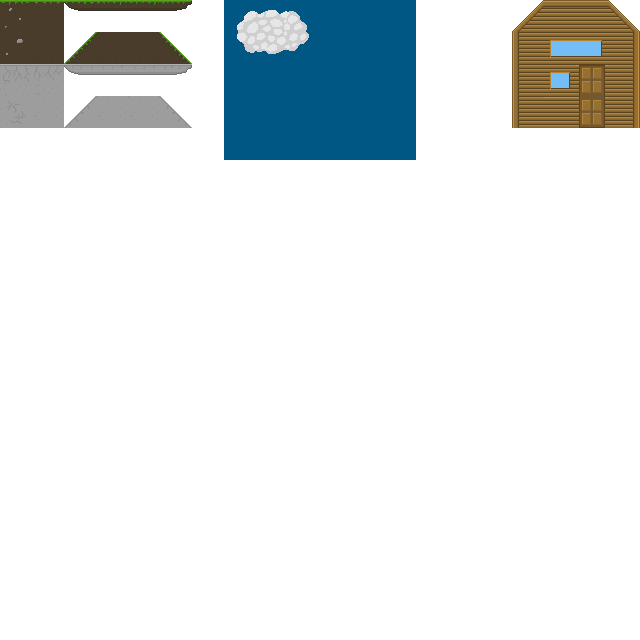
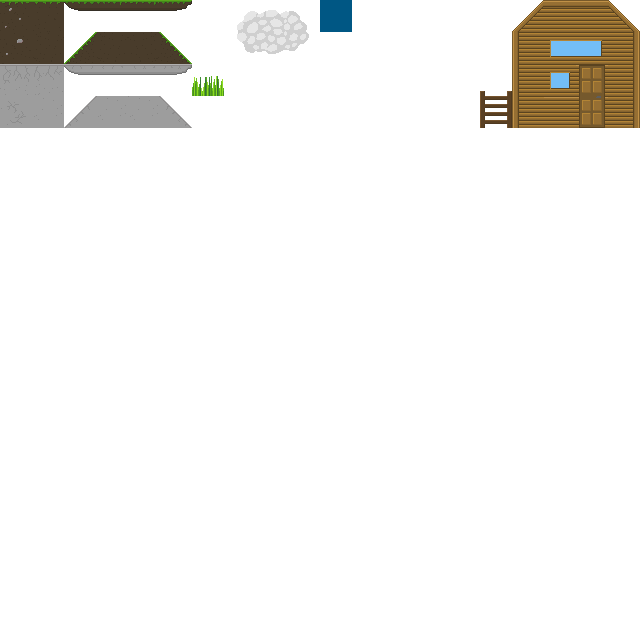
Changed tileset a bit, removed extra platforms cause eventually we will use tiled

Changed region(s): [[0.2812, 0.0, 0.6562, 0.25], [0.75, 0.125, 0.8125, 0.2188]]

diff --git a/Main.py b/Main.py
@@ -29,11 +29,7 @@ background = pygame.image.load("Resources/SinglePhotos/ForestBackground.png")
 # Add sprites to corresponding list-----------------------------
 enemy_sprites = [Enemy.squid, Enemy.dragon_hatchling]
 player_sprite = [player]
-platform_sprites = [CollisionObject.platform1,
-                    CollisionObject.platform2,
-                    CollisionObject.platform3,
-                    CollisionObject.platform4,
-                    CollisionObject.ground]
+platform_sprites = [CollisionObject.ground]
 
 gui_sprites = [GUI.health_bar,
                GUI.mana_bar]
